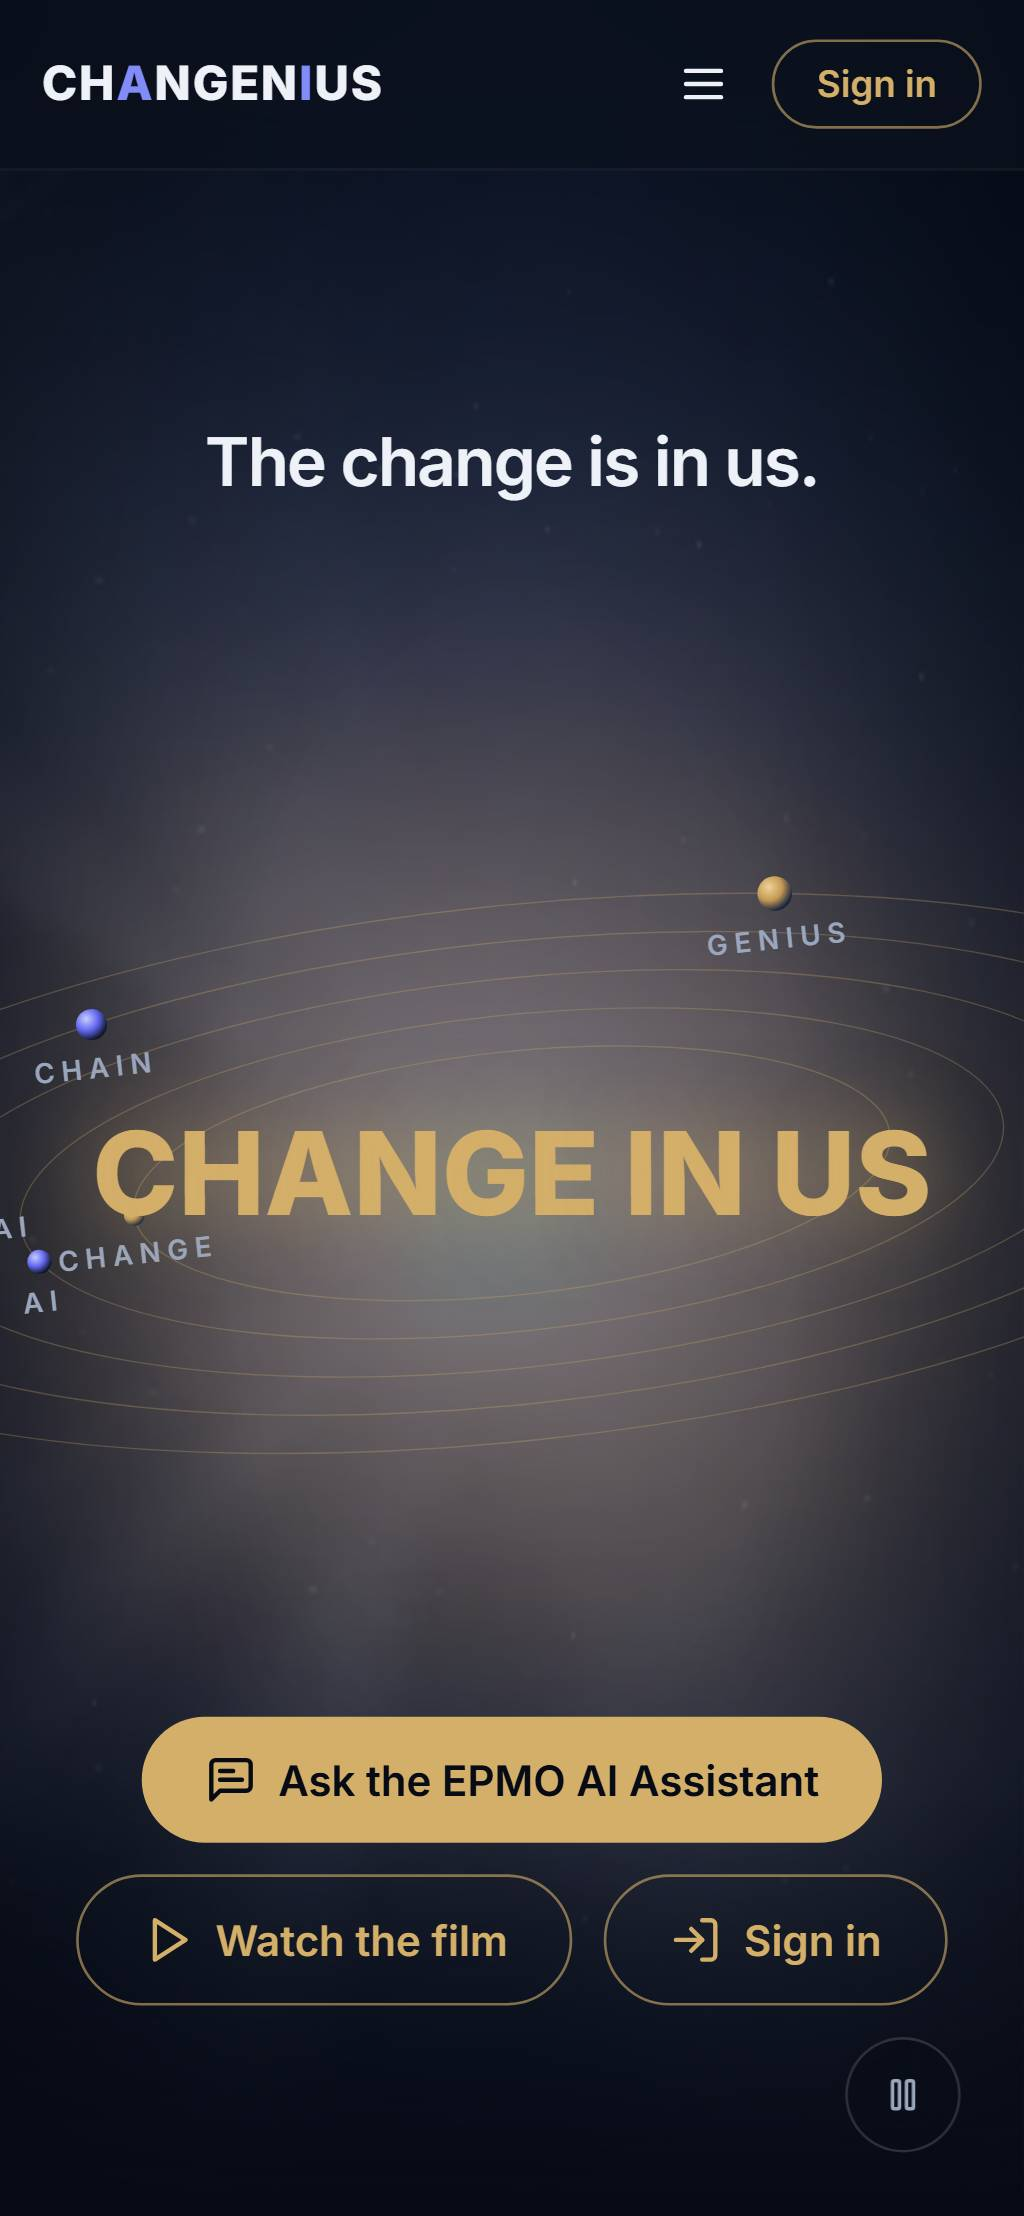
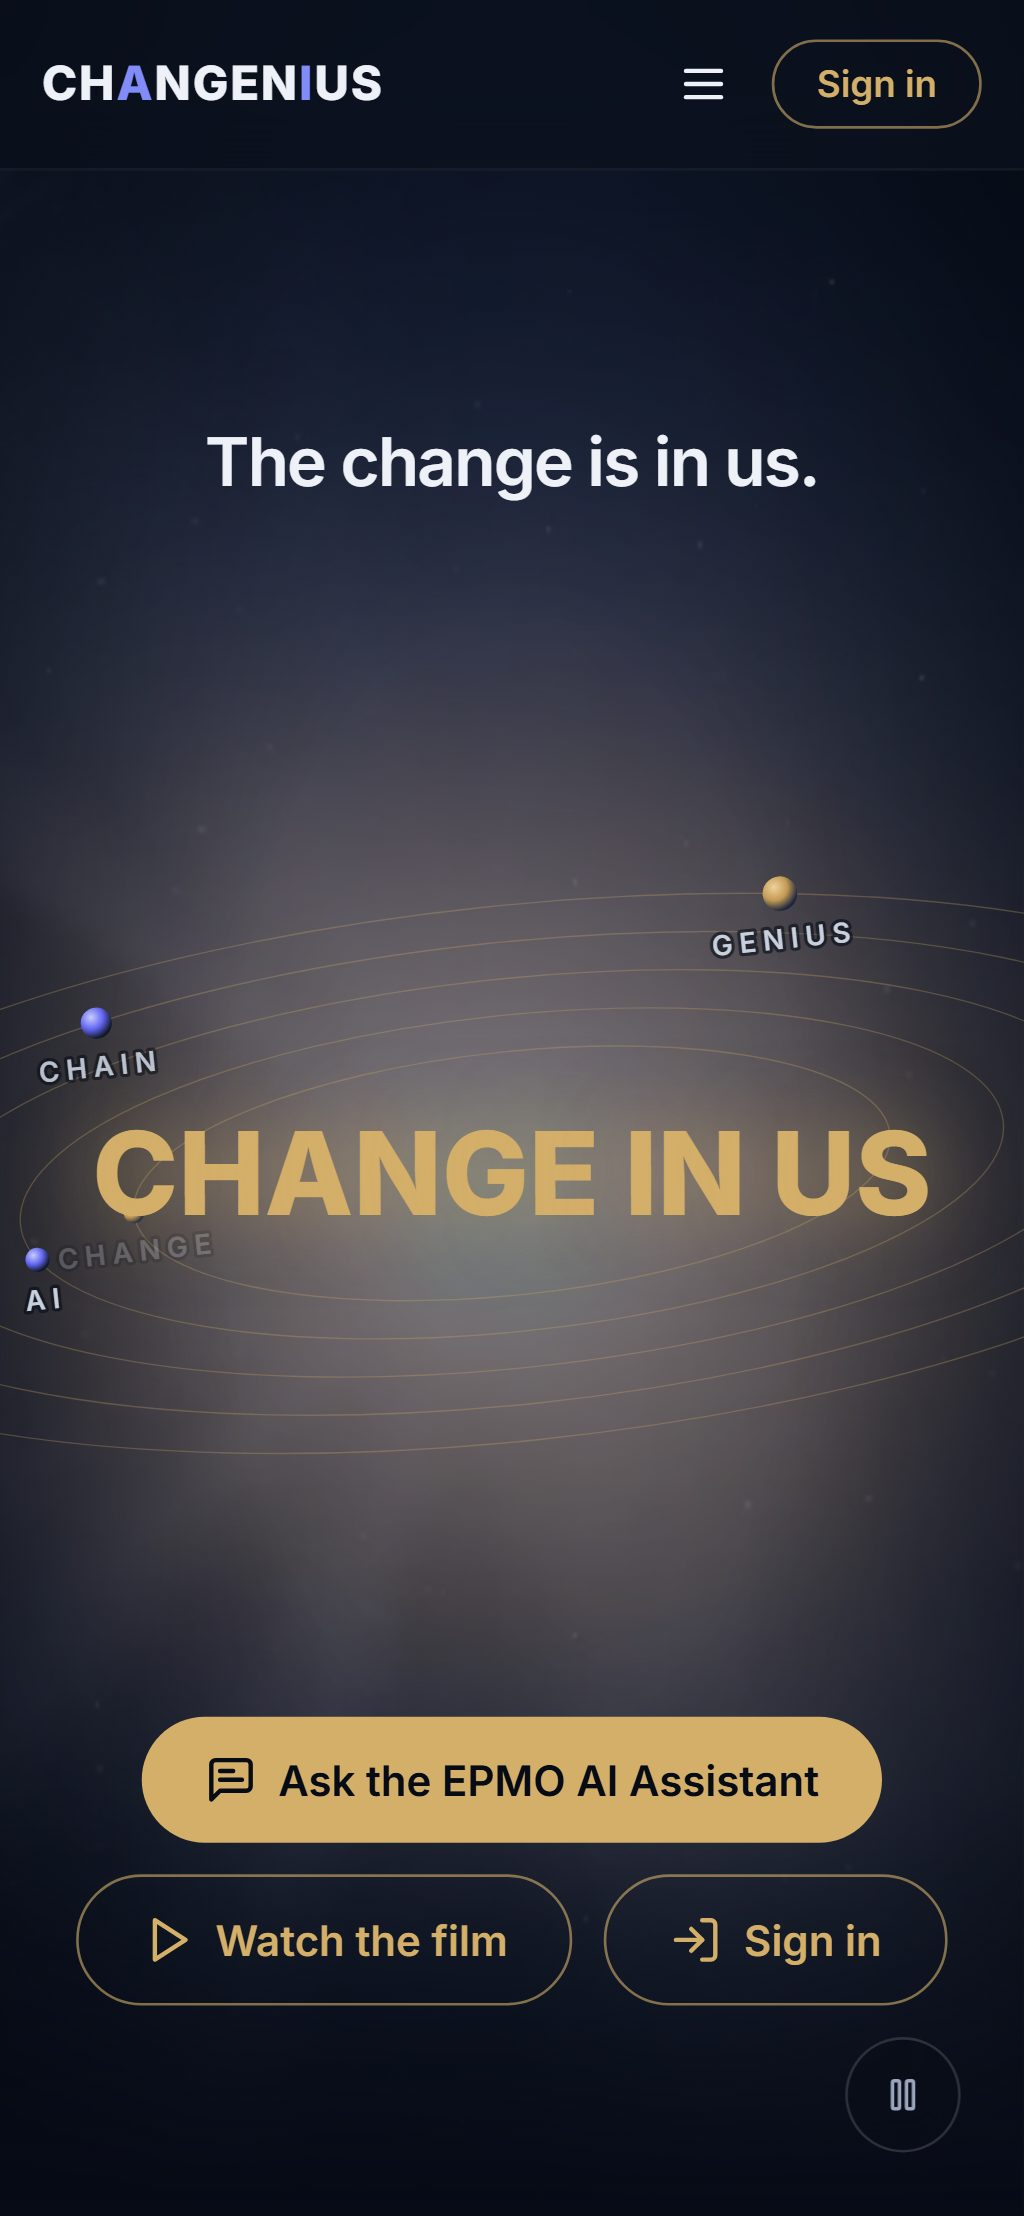
docs: SIT follow-up fixes (owner decisions) with Lighthouse and contrast numbers

diff --git a/docs/sit/2026-11-11-landing-sit.md b/docs/sit/2026-11-11-landing-sit.md
@@ -61,18 +61,18 @@ Three demo-tile readings at the very top of the screen came out as 1.0 because t
 
 ## Screenshots
 
-`docs/sit/2026-11-11-shots/`. Each file name starts with `desktop-` (1440×900) or `phone-` (390×844, Pixel 7). 1.9 MB in all.
+`docs/sit/2026-11-11-shots/`. Each file name starts with `desktop-` (1440×900) or `phone-` (390×844, Pixel 7). 2.0 MB in all.
 
 | File | Shows | Seen |
 |---|---|---|
-| `01-hero-mid-word` | "AGENTIC AI" while it morphs | OK. The CHANGE planet and its label cross the word (N3) |
-| `02-hero-close` | "CHANGE IN US" | OK. On phone, two labels are cut off at the left edge (N3) |
-| `03-hero-reduced-motion` | Still frame, all planets | OK |
+| `01-hero-mid-word` | "AGENTIC AI" while it morphs | OK. Retaken after the follow-up: the CHANGE label dims while it crosses the word |
+| `02-hero-close` | "CHANGE IN US" | OK. Retaken after the follow-up: on phone the labels stay inside the screen |
+| `03-hero-reduced-motion` | Still frame, all planets | OK. Retaken with the brighter labels and halo |
 | `04-assistant-empty` | Chips, message box, footnote | OK |
 | `05-assistant-answer` | Answer with an own-domain link | OK. The link to another domain is shown as plain text |
 | `06-assistant-request-card` | Demo request card | OK. On phone the card scrolls inside the conversation |
 | `07-assistant-sent` | Confirmation line | OK |
-| `08-films` | Film section | Poster missing locally, so the broken-image icon shows top-left (N4) |
+| `08-films` | Film section | OK. Retaken after the follow-up: the missing poster now leaves the designed title card |
 | `09-film-viewer` | Viewer dialog | Spinner only: no media locally |
 | `10-sign-in` | Sign-in panel | OK |
 | `11-demos` | Demo chapters | OK |
@@ -85,10 +85,10 @@ Three demo-tile readings at the very top of the screen came out as 1.0 because t
 
 | # | Finding | Severity | Status |
 |---|---|---|---|
-| N1 | With the assistant on, phone performance is 75 (target 85), because Turnstile loads with the page. Blocking it gives 91. | **Must fix before switch-on**; not a launch blocker (off = 98) | Open. Fix: load the Turnstile script only when the visitor reaches or starts using the assistant, and add a preconnect. This changes when a token is ready, so it needs its own change and tests rather than a quick edit here |
-| N2 | Hero planet labels (muted on the glow, or crossing the big word) fall to about 2:1 at worst. | Minor. The labels are `aria-hidden` decoration inside the animation, and the same words are in the statement text | Open, needs an owner decision: leave as is, brighten them to `fg`, or give them a dark text shadow |
-| N3 | Labels cross the big word on desktop too, not only on phone. On phone at the close, AGENTIC AI is off screen and AI is half cut at the left edge. | Cosmetic | Open |
-| N4 | If a film poster fails to load, Chrome shows its broken-image icon in the tile corner. | Minor. Here it happens only because there is no `MEDIA_BASE_URL`. In production it happens only if a poster is missing in R2 | Open. Could hide the image when it fails to load |
+| N1 | With the assistant on, phone performance is 75 (target 85), because Turnstile loads with the page. Blocking it gives 91. | **Must fix before switch-on**; not a launch blocker (off = 98) | **Fixed** in the follow-up below: 98 with the assistant on |
+| N2 | Hero planet labels (muted on the glow, or crossing the big word) fall to about 2:1 at worst. | Minor. The labels are `aria-hidden` decoration inside the animation, and the same words are in the statement text | **Fixed** in the follow-up below (owner chose: brighten and keep clear) |
+| N3 | Labels cross the big word on desktop too, not only on phone. On phone at the close, AGENTIC AI is off screen and AI is half cut at the left edge. | Cosmetic | **Fixed** in the follow-up below |
+| N4 | If a film poster fails to load, Chrome shows its broken-image icon in the tile corner. | Minor. Here it happens only because there is no `MEDIA_BASE_URL`. In production it happens only if a poster is missing in R2 | **Fixed** in the follow-up below |
 | N5 | The film duration over a very bright poster on phone measures 3.9–4.7:1. | Minor. Depends on the real poster, which was not available | Open. Check against the real poster on the Vercel preview |
 | N6 | Lighthouse's unscored rule "label-content-name-mismatch" flags the tiles. Their name is "Play X, 1:53" while the visible text is "X 1:53". | Minor (weight 0, accessibility score stays 100) | Open |
 | N7 | Right after the film viewer closed on phone, one screenshot showed the page a few pixels lower under the header. A fresh capture 1.5 s later was normal. | Observation | Not reproduced. Replaced with the clean shot |
@@ -116,6 +116,29 @@ Three demo-tile readings at the very top of the screen came out as 1.0 because t
 | Fix wave J | Auto-advance at the end of a film lost focus | `onEnded` keeps focus on the new video (e2e) |
 | Fix wave K | The phone keyboard popped up after a quick-start or Confirm | Focus goes to the conversation or confirmation line instead (e2e) |
 | Fix wave L | `.gitignore` gaps; stale comment in `icon.svg` | Fixed |
+
+## Follow-up fixes (owner decisions, 11 Nov 2026)
+
+Three changes the owner approved after reading this report. Tested on a production build with the assistant **on** (same environment as check 6: Turnstile test keys, app stub on port 3199, server on 3200).
+
+| Finding | Owner decision | What changed |
+|---|---|---|
+| N2, N3 planet labels | Brighten and keep clear | Labels are a little brighter (`#c8d0de`, between muted and `fg`, not gold) with a soft dark halo (SVG `paint-order: stroke`, ink at 60%, 0.24em). Each frame, a label that would run off the screen slides back inside it, and fades out once its planet has left the screen; a label crossing the big word fades to 25% opacity. Rings, planets, colours, timings and the reduced-motion still are unchanged |
+| N1 Turnstile weight | Load it on demand | The Turnstile script is rendered only once the chat panel comes within 100 px of the screen, or the visitor focuses or touches anything in it, whichever is first. A message sent before the token exists still waits for it (30 s limit, error → fallback). The margin is 100 px rather than ~400 px because the panel starts only about 200 px below a phone's first screen, so a wider margin would load Turnstile with the page again |
+| N4 broken poster | Hide it | If a poster fails to load, the image is removed and the tile's designed title card shows |
+
+**Lighthouse 12, mobile, production build, assistant on** (5 runs): performance **97, 98, 99, 98, 97 — median 98** (was 75), accessibility **100**. First paint 1.2 s (was 3.6–3.7 s), largest paint 2.2–2.3 s (was 4.6 s), blocking time 52–137 ms. No request to `challenges.cloudflare.com` during the load.
+
+**Planet label contrast** (same pixel method as above; the background under each letter now includes its halo):
+
+| Case | Desktop 1440×900 | Phone 390×844 |
+|---|---|---|
+| Every label placed by hand on the brightest spot of the glow, word hidden, full opacity | **5.8 worst pixel**, 5.9 median | **8.1 worst pixel**, 8.2 median |
+| In motion, 22 samples over about 2½ minutes, labels at full opacity | medians 10.8–12.4; 90% of pixels ≥ 6.7 | medians 9.1–10.5; 90% of pixels ≥ 8.1 |
+
+Before: desktop medians 2.2–7.7, phone 2.0–4.1. One phone sample had a single worst pixel of 2.3 (AGENTIC AI) and one of 4.7 (CHAIN), at a letter edge where a ring or planet sits under the halo; the 90% figure for both is above 8. Labels deliberately dimmed over the word (29 readings) are not counted: they are decoration fading out.
+
+**Checks after the follow-up:** `npm run typecheck` pass; `npm run lint` 0 errors (the same 2 warnings); Vitest **95 passed** (4 new, for the label placement); `npm run build` pass (`/` 24.7 kB, 127 kB First Load JS); Playwright **41 passed, 1 skipped**. New e2e: no Turnstile request until the chat is scrolled into view; a message sent before Turnstile is ready still gets its answer; a poster answering 404 leaves no image in the tile. Screenshots `01`–`03` and `08` (desktop and phone) retaken.
 
 ### Known minor items still open (from the reviews)
 
